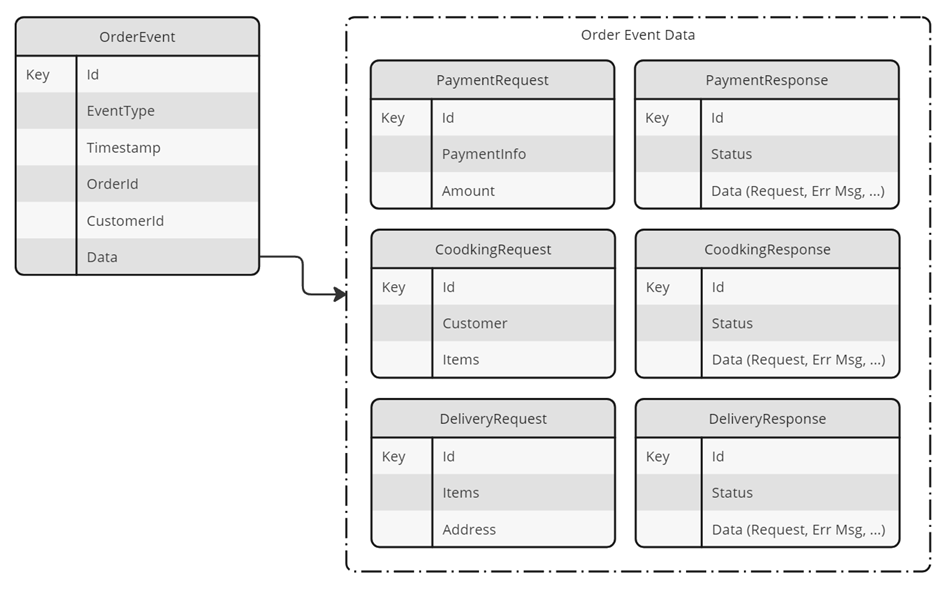
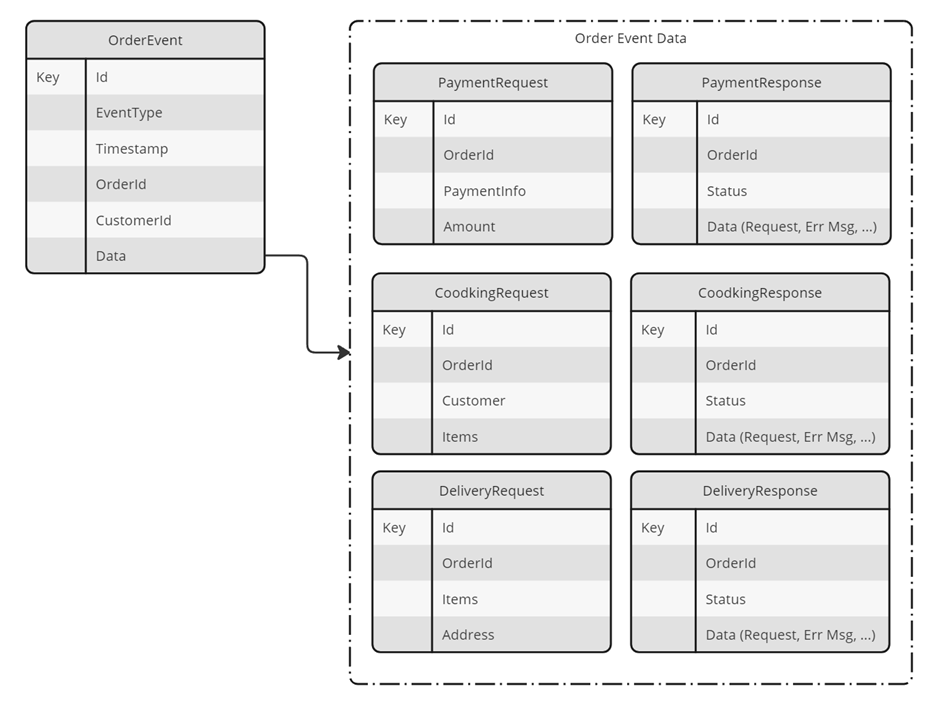
message flow

diff --git a/labs/lab-07/solution/payment-service/Domain/PaymentRequest.cs b/labs/lab-07/solution/payment-service/Domain/PaymentRequest.cs
@@ -1,15 +1,20 @@
-using System.Text.Json;
+using System;
 using Newtonsoft.Json;
 
 namespace FoodApp
 {
-    public class PaymentRequest
-    {
+    public class PaymentRequest{
+        public PaymentRequest() {
+            this.Id = Guid.NewGuid().ToString();
+        }
+
+        [JsonProperty("Id")]
+        public string Id {get;set;}
         [JsonProperty("orderId")]
         public string OrderId {get;set;}
-        [JsonProperty("paymentInfo")]
-        public PaymentInfo PaymentInfo { get; set; }
         [JsonProperty("amount")]
-        public decimal Amount { get; set; }
+        public decimal Amount {get;set;}
+        [JsonProperty("paymentInfo")]
+        public PaymentInfo PaymentInfo {get;set;}
     }
 }

diff --git a/labs/lab-07/solution/orders-service/Domain/PaymentResponse.cs b/labs/lab-07/solution/orders-service/Domain/PaymentResponse.cs
@@ -1,12 +1,18 @@
-using System.Text.Json;
+using System;
 using Newtonsoft.Json;
 
 namespace FoodApp
 {
-    public class PaymentResponse
-    {
+    public class PaymentResponse{
+        public PaymentResponse()
+        {
+            this.Id = Guid.NewGuid().ToString();
+        }
+
+        [JsonProperty("Id")]
+        public string Id { get; set; }
         [JsonProperty("orderId")]
-        public string OrderId {get;set;}
+        public string OrderId { get; set; }
         [JsonProperty("status")]
         public string Status { get; set; }
         [JsonProperty("data")]

diff --git a/labs/lab-07/solution/payment-service/Domain/PaymentResponse.cs b/labs/lab-07/solution/payment-service/Domain/PaymentResponse.cs
@@ -1,12 +1,18 @@
-using System.Text.Json;
+using System;
 using Newtonsoft.Json;
 
 namespace FoodApp
 {
-    public class PaymentResponse
-    {
+    public class PaymentResponse{
+        public PaymentResponse()
+        {
+            this.Id = Guid.NewGuid().ToString();
+        }
+
+        [JsonProperty("Id")]
+        public string Id { get; set; }
         [JsonProperty("orderId")]
-        public string OrderId {get;set;}
+        public string OrderId { get; set; }
         [JsonProperty("status")]
         public string Status { get; set; }
         [JsonProperty("data")]

diff --git a/labs/lab-07/solution/orders-service/Domain/PaymentRequest.cs b/labs/lab-07/solution/orders-service/Domain/PaymentRequest.cs
@@ -1,8 +1,15 @@
+using System;
 using Newtonsoft.Json;
 
 namespace FoodApp
 {
     public class PaymentRequest{
+        public PaymentRequest() {
+            this.Id = Guid.NewGuid().ToString();
+        }
+
+        [JsonProperty("Id")]
+        public string Id {get;set;}
         [JsonProperty("orderId")]
         public string OrderId {get;set;}
         [JsonProperty("amount")]

diff --git a/labs/lab-07/solution/orders-service/Controllers/IntegrationController.cs b/labs/lab-07/solution/orders-service/Controllers/IntegrationController.cs
@@ -8,7 +8,6 @@ namespace FoodApp
     [ApiController]
     public class IntegrationController : ControllerBase
     {
-
         private readonly ISender sender;
         private readonly IDaprEventBus eb;
         AILogger logger;

diff --git a/labs/lab-06/readme.md b/labs/lab-06/readme.md
@@ -21,7 +21,7 @@ In this lab we will take a look at the message flow between the services and des
 
 - Possible Message Data Structure
 
-    ![message-flow-data-model](../_images/message-flow-data-model.png)
+    ![message-flow-data-model](_images/message-flow-data-model.png)
 
 ## Task: Review the payment process
 
